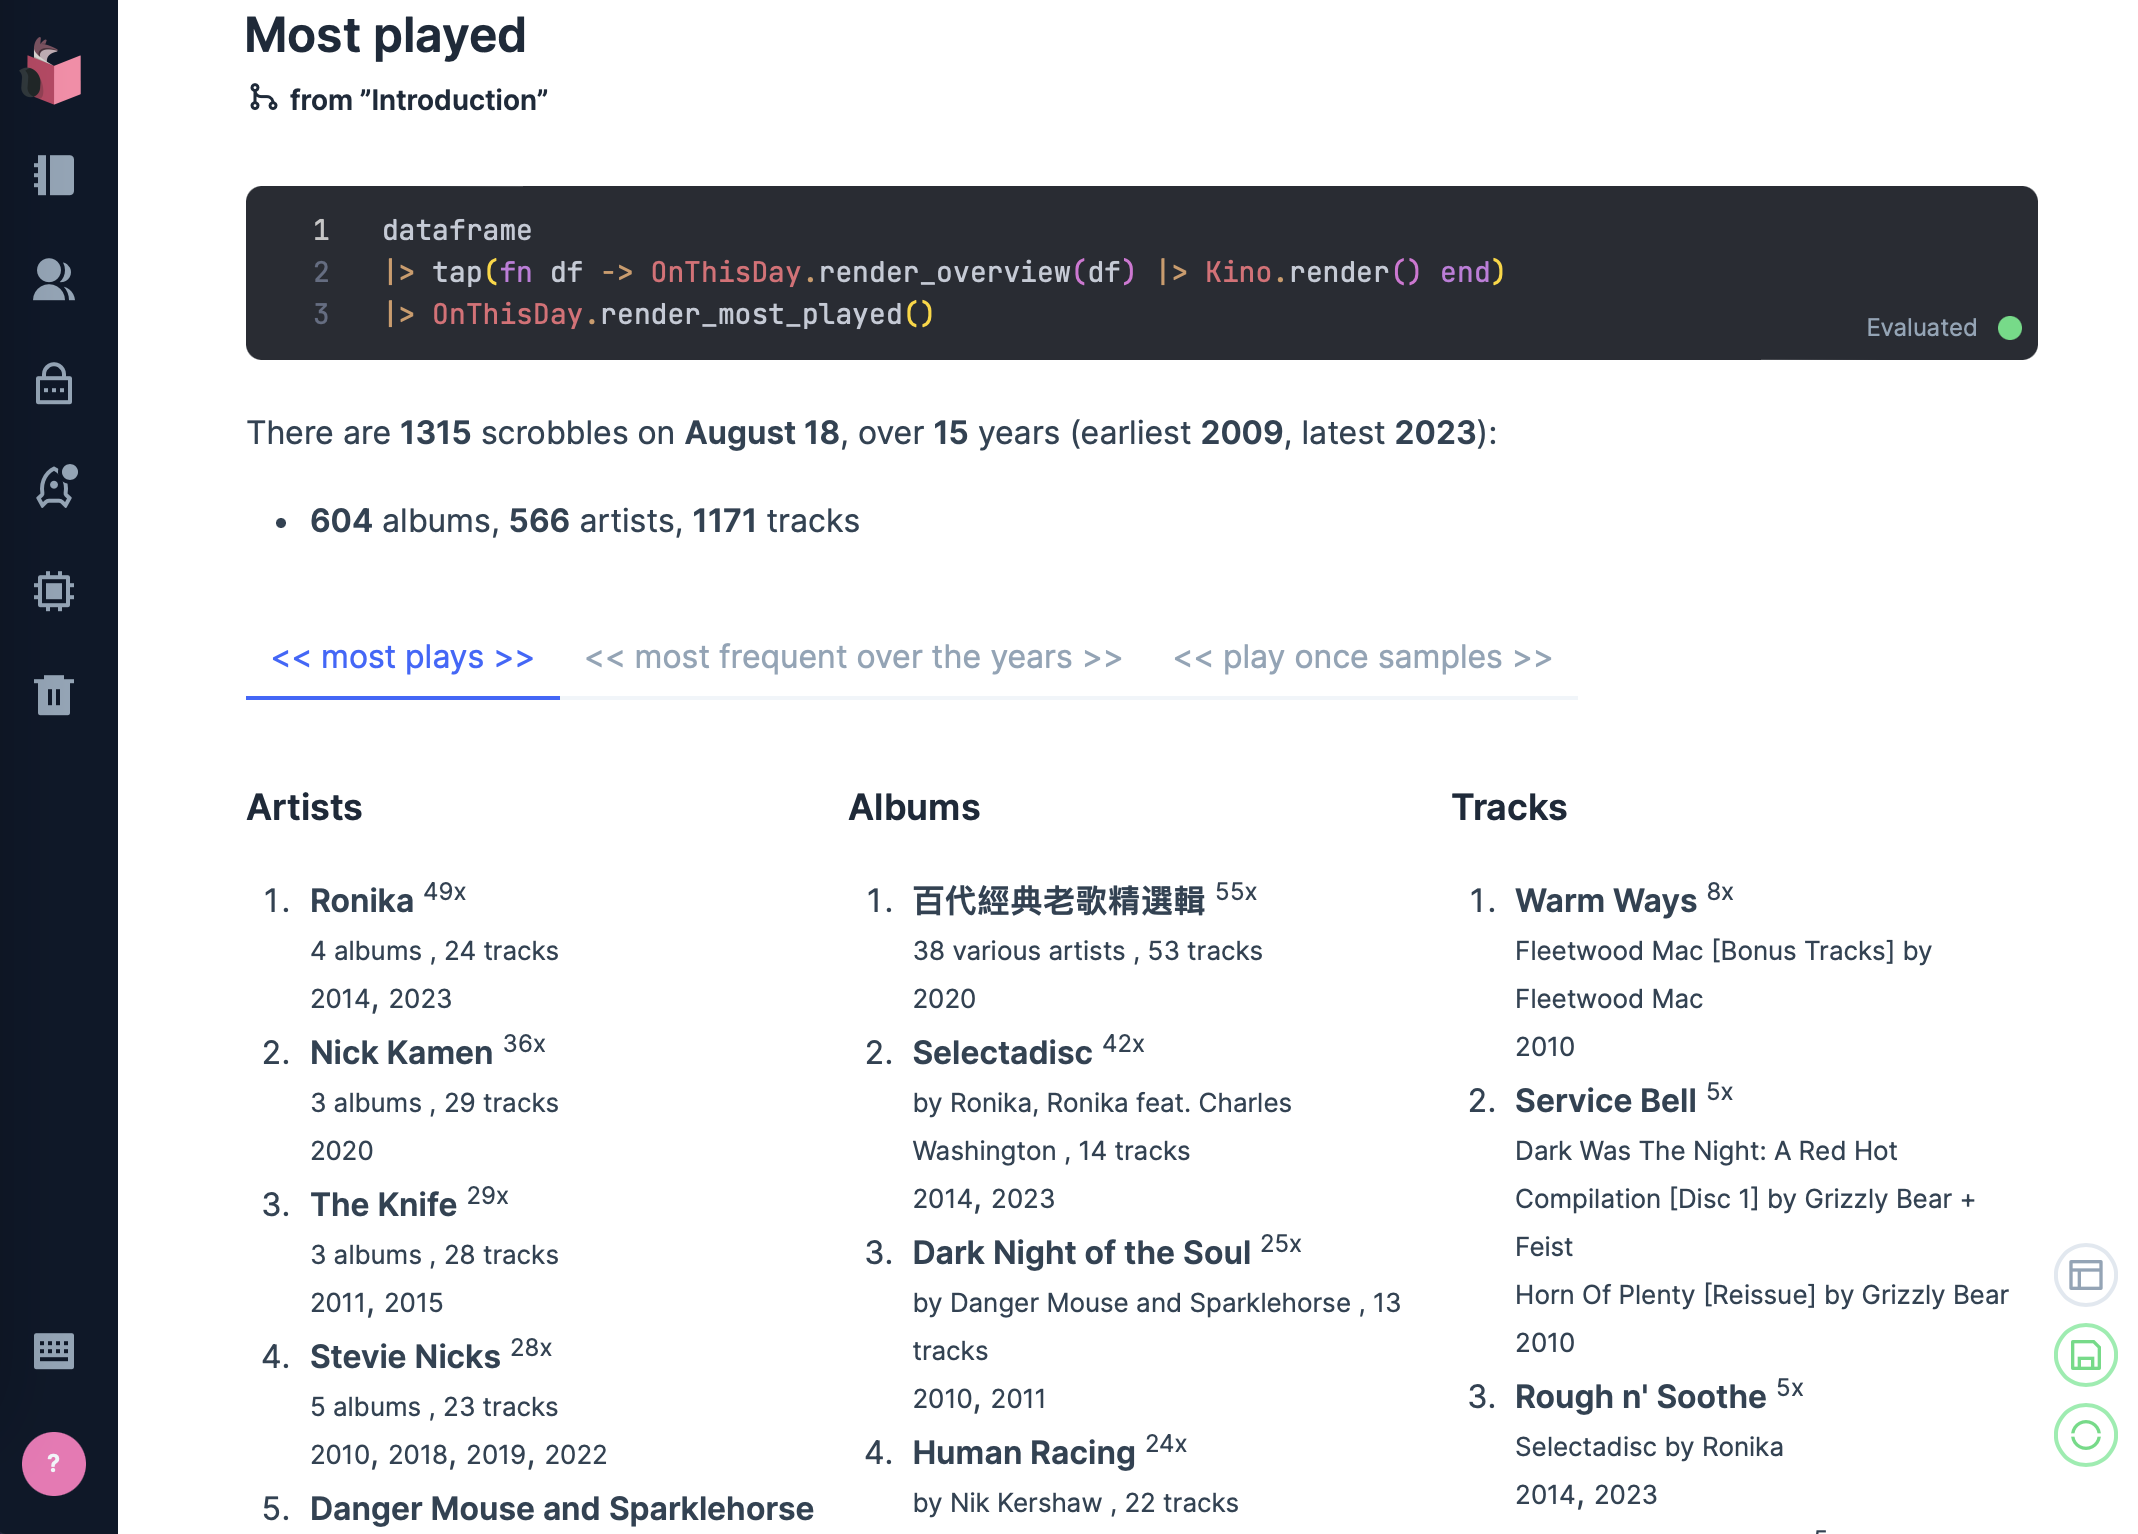
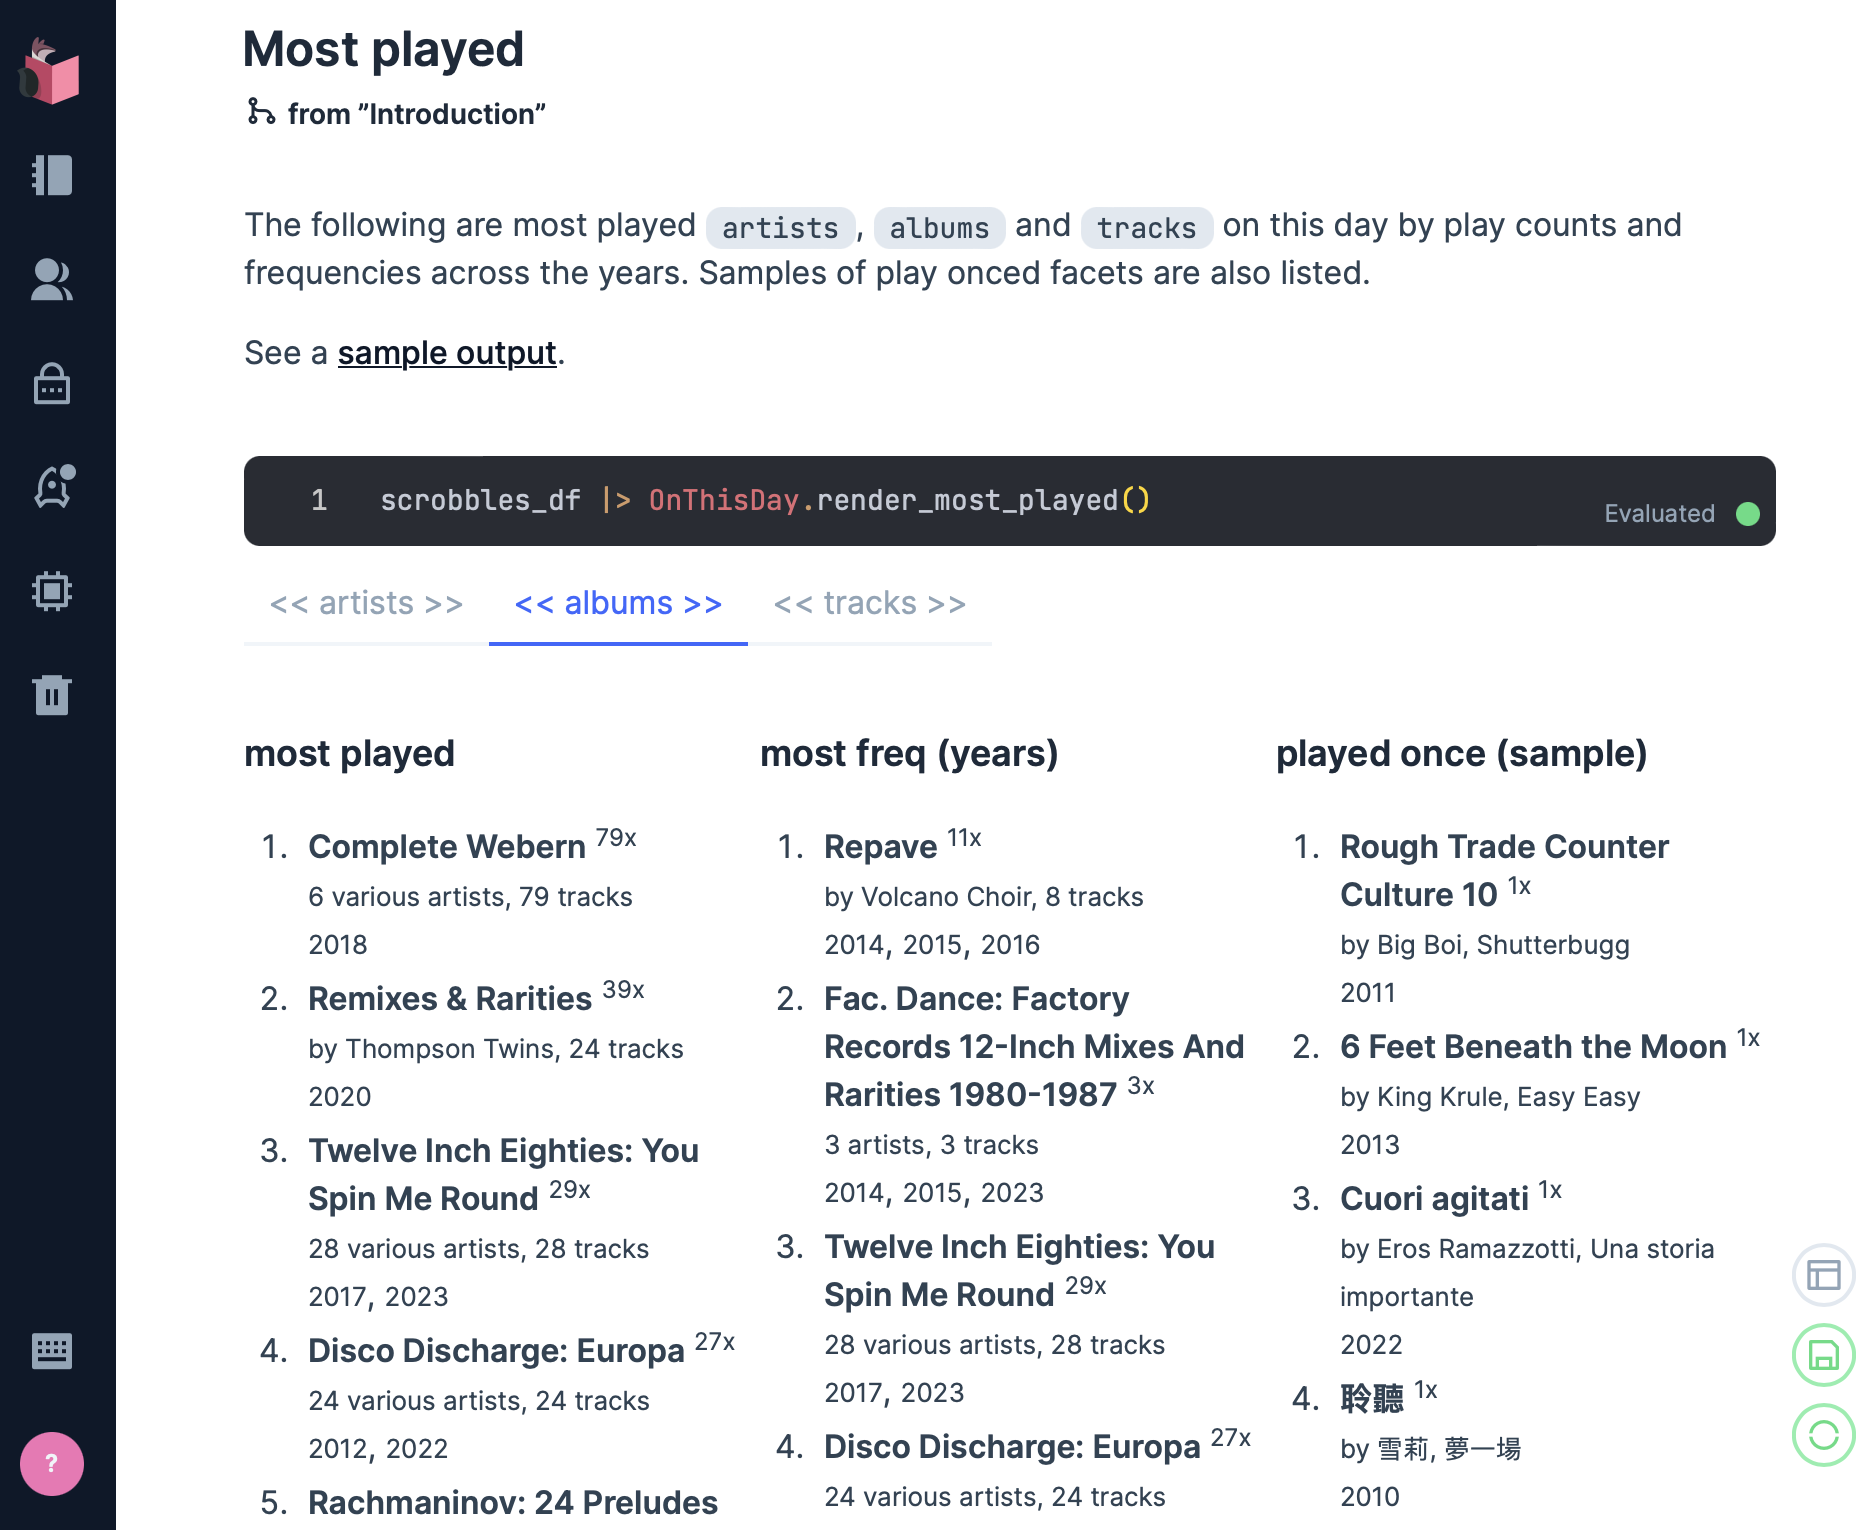
chore: bump to 0.3

diff --git a/README.md b/README.md
@@ -1,8 +1,8 @@
 # Coda: music listening history [![Build Status](https://github.com/boonious/coda/actions/workflows/elixir.yml/badge.svg)](https://github.com/boonious/coda/actions/workflows/elixir.yml) [![Hex pm](http://img.shields.io/hexpm/v/coda.svg?style=flat)](https://hex.pm/packages/coda)
 
-Analytics and visualisation of music listening history 听歌历史.
+Analytics and visualisation of Last.fm music listening history 听歌历史.
 
-`coda` currently works with Last.fm columnar data extracted by
+`coda` currently experimental and works with Last.fm columnar data extracted by
 [lastfm_archive](https://github.com/boonious/lastfm_archive). See:
 [Creating a file archive](https://github.com/boonious/lastfm_archive#livebook-guides).
 
@@ -15,13 +15,19 @@ an analytics API and functionality are being refactored and developed.
 
 ### Livebook
 [On this day ♫](https://hexdocs.pm/coda/on_this_day.html) presents
-analytics of all music discovered and played on this day (today) over the years. 
+analytics of music discovered (new) and most played Lastfm scrobbles 
+on this day (today) over the years. 
 The page also features an interactive [Kino explorer](https://hexdocs.pm/kino_explorer/Kino.Explorer.html)
 to help delving into the data.
 
 [![Run in Livebook](https://livebook.dev/badge/v1/blue.svg)](https://livebook.dev/run?url=https%3A%2F%2Fraw.githubusercontent.com%2Fboonious%2Fcoda%2Fmaster%2Flivebook%2Fon_this_day.livemd)
 
+
+![overview on this day](assets/img/livebook_on_this_day_overview.png)
+
 ![on this day most played analytics](assets/img/livebook_on_this_day_most_played_analytics.png)
+
+![new on this day analytics](assets/img/livebook_on_this_day_new.png)
 
 ## Requirement
 
@@ -37,7 +43,7 @@ to your list of dependencies in `mix.exs`:
 ```elixir
 def deps do
   [
-    {:coda, "~> 0.2"}
+    {:coda, "~> 0.3"}
   ]
 end
 ```

diff --git a/CHANGELOG.md b/CHANGELOG.md
@@ -1,5 +1,10 @@
 # Changelog
 
+## 0.3.0 (2023-10-06)
+
+* analytics for new music discovered on-this-day, listed in a new Livebook section
+* rework on-this-day Livebook including overview visuals
+
 ## 0.2.0 (2023-09-13)
 
 * faster (optimised) on-this-day data frame creation functions and Livebook UX
